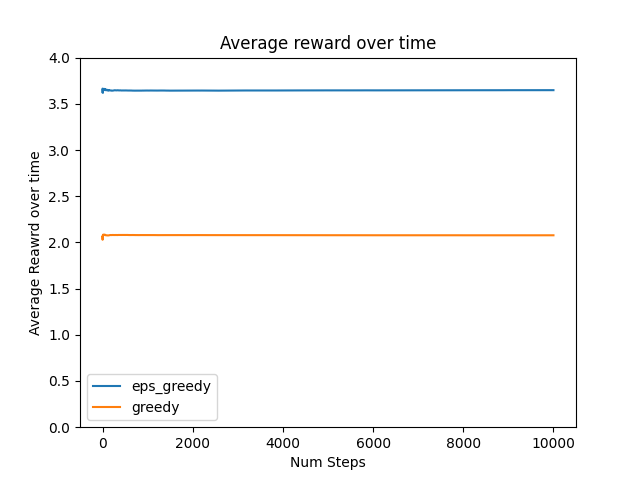
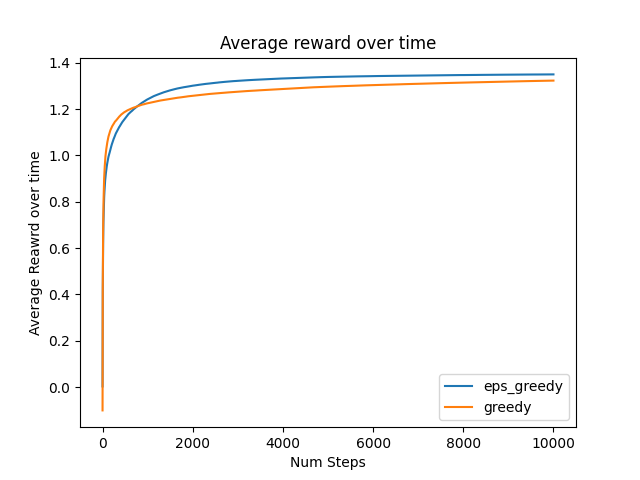
updated code and reset logic

diff --git a/misc_ml/k_armed_bandit_nonstationary.py b/misc_ml/k_armed_bandit_nonstationary.py
@@ -49,6 +49,8 @@ def run_experiment(agent, environment, num_steps):
     average_rewards = [0]*num_steps
     average_optimal_actions = [0]*num_steps
     for i in tqdm(range(1000)):
+        agent.reset()
+        environment.reset()
         total_reward = 0
         rewards = []
         optimal_actions = []
@@ -94,7 +96,6 @@ plt.plot(np.cumsum(rewards)/(np.arange(num_steps) + 1), label="greedy")
 plt.title("Average reward over time")
 plt.ylabel("Average Reawrd over time")
 plt.xlabel("Num Steps")
-plt.ylim(0, 4)
 plt.legend()
 plt.savefig("plots/non_stationary_bandit.png")
 plt.show()
